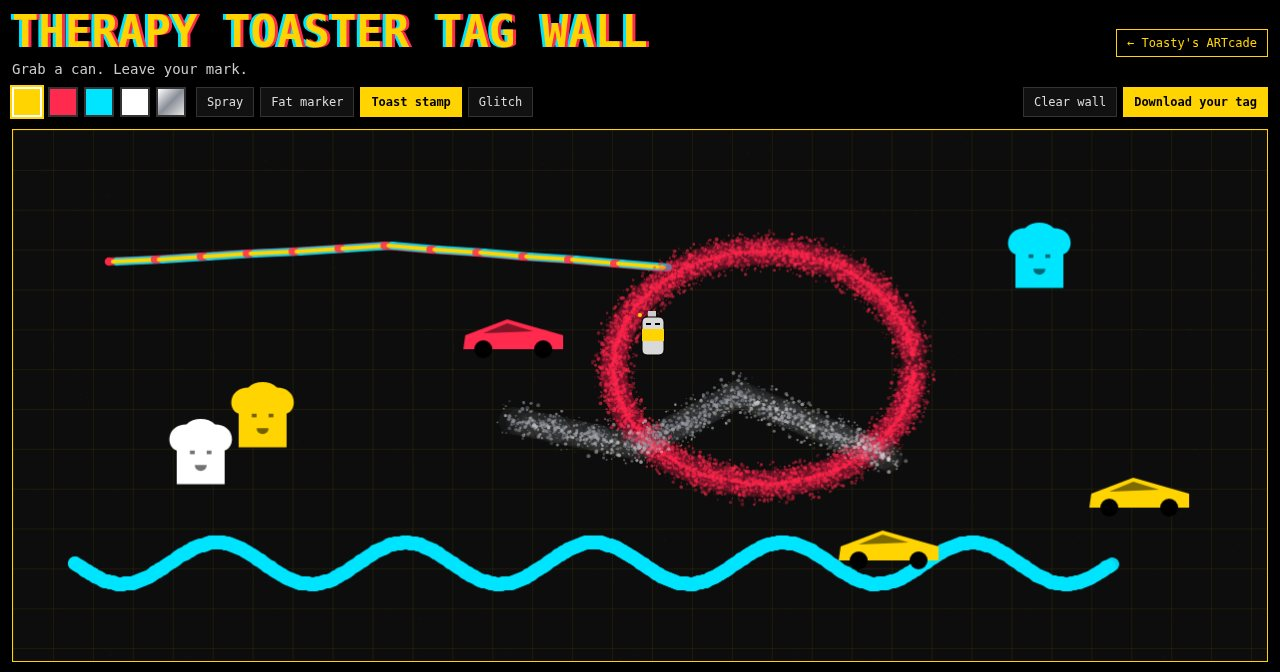
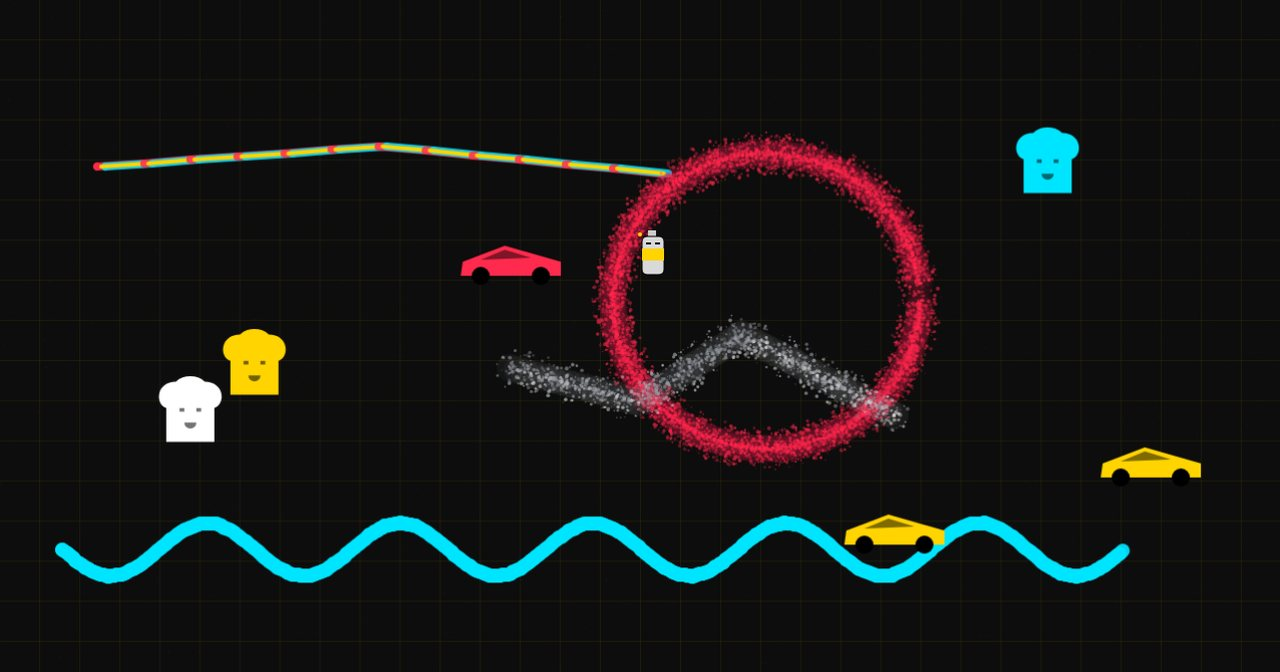
tag-wall: artwork-only card thumbnail (no title clash with NEW badge)

diff --git a/tag-wall/arcade-card.js b/tag-wall/arcade-card.js
@@ -8,7 +8,7 @@
 if(window.__ttTagWallCard)return;window.__ttTagWallCard=1;
 var NAME="Toaster Tag Wall",NAME_UP="TOASTER TAG WALL";
 var LIVE="https://therapytoaster.github.io/tt-live/tag-wall/";
-var ART_V="002";
+var ART_V="003";
 var U=(function(){
   var s=document.currentScript&&document.currentScript.src;
   if(s){var u=s.replace(/arcade-card\.js(?:\?.*)?$/i,"");if(u)return u}
